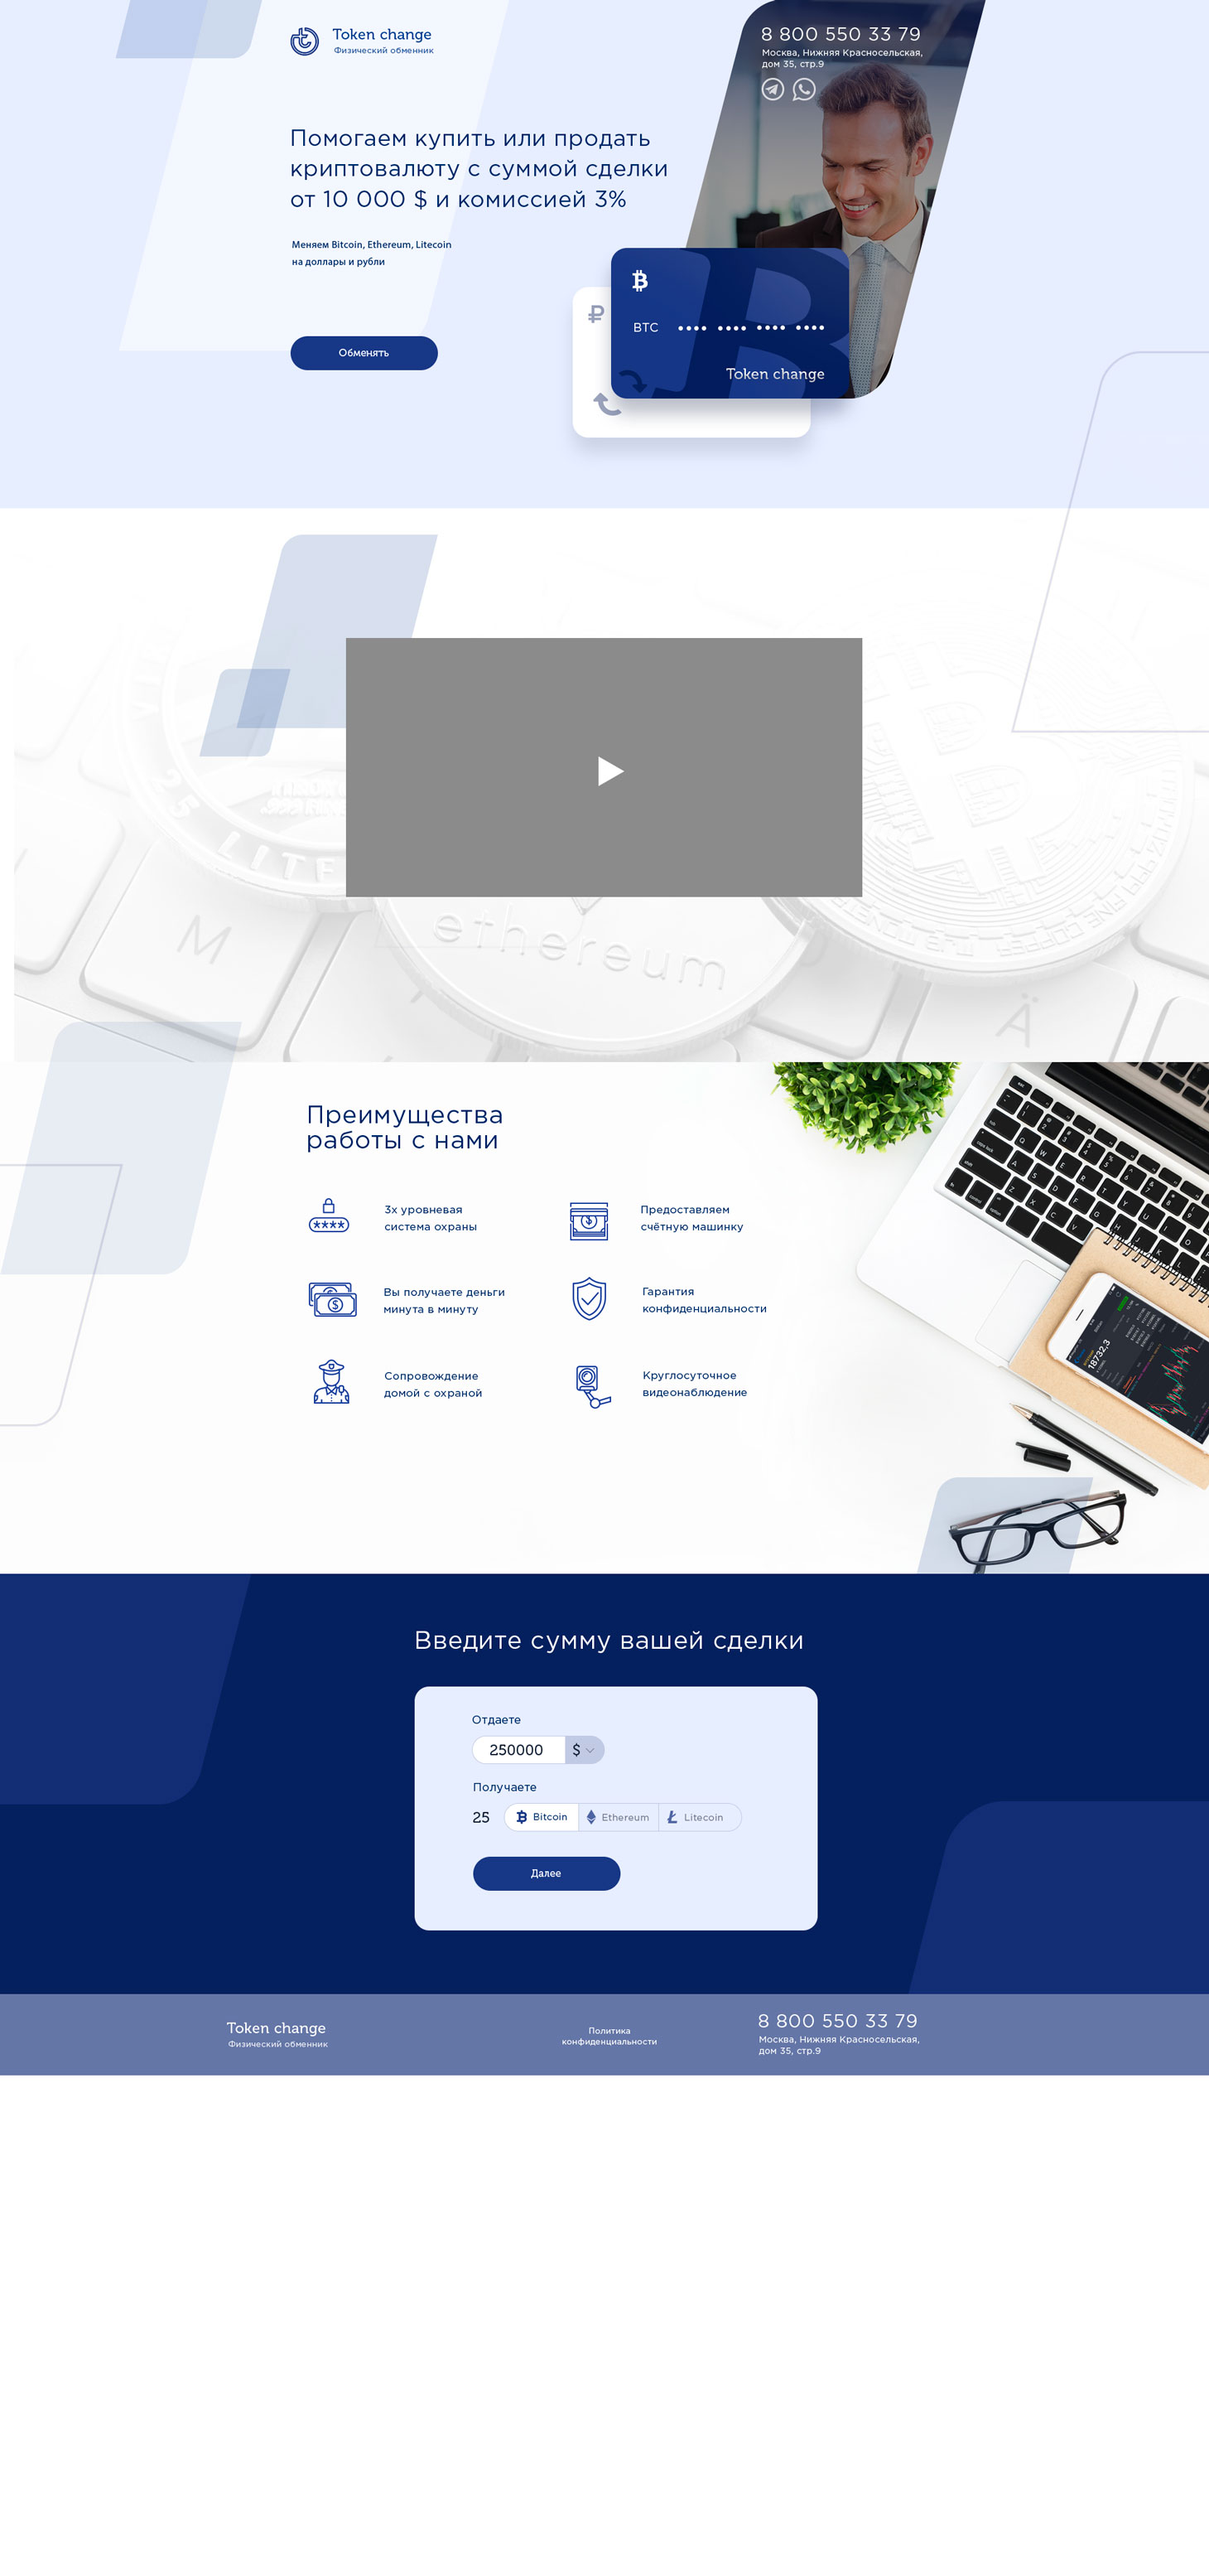
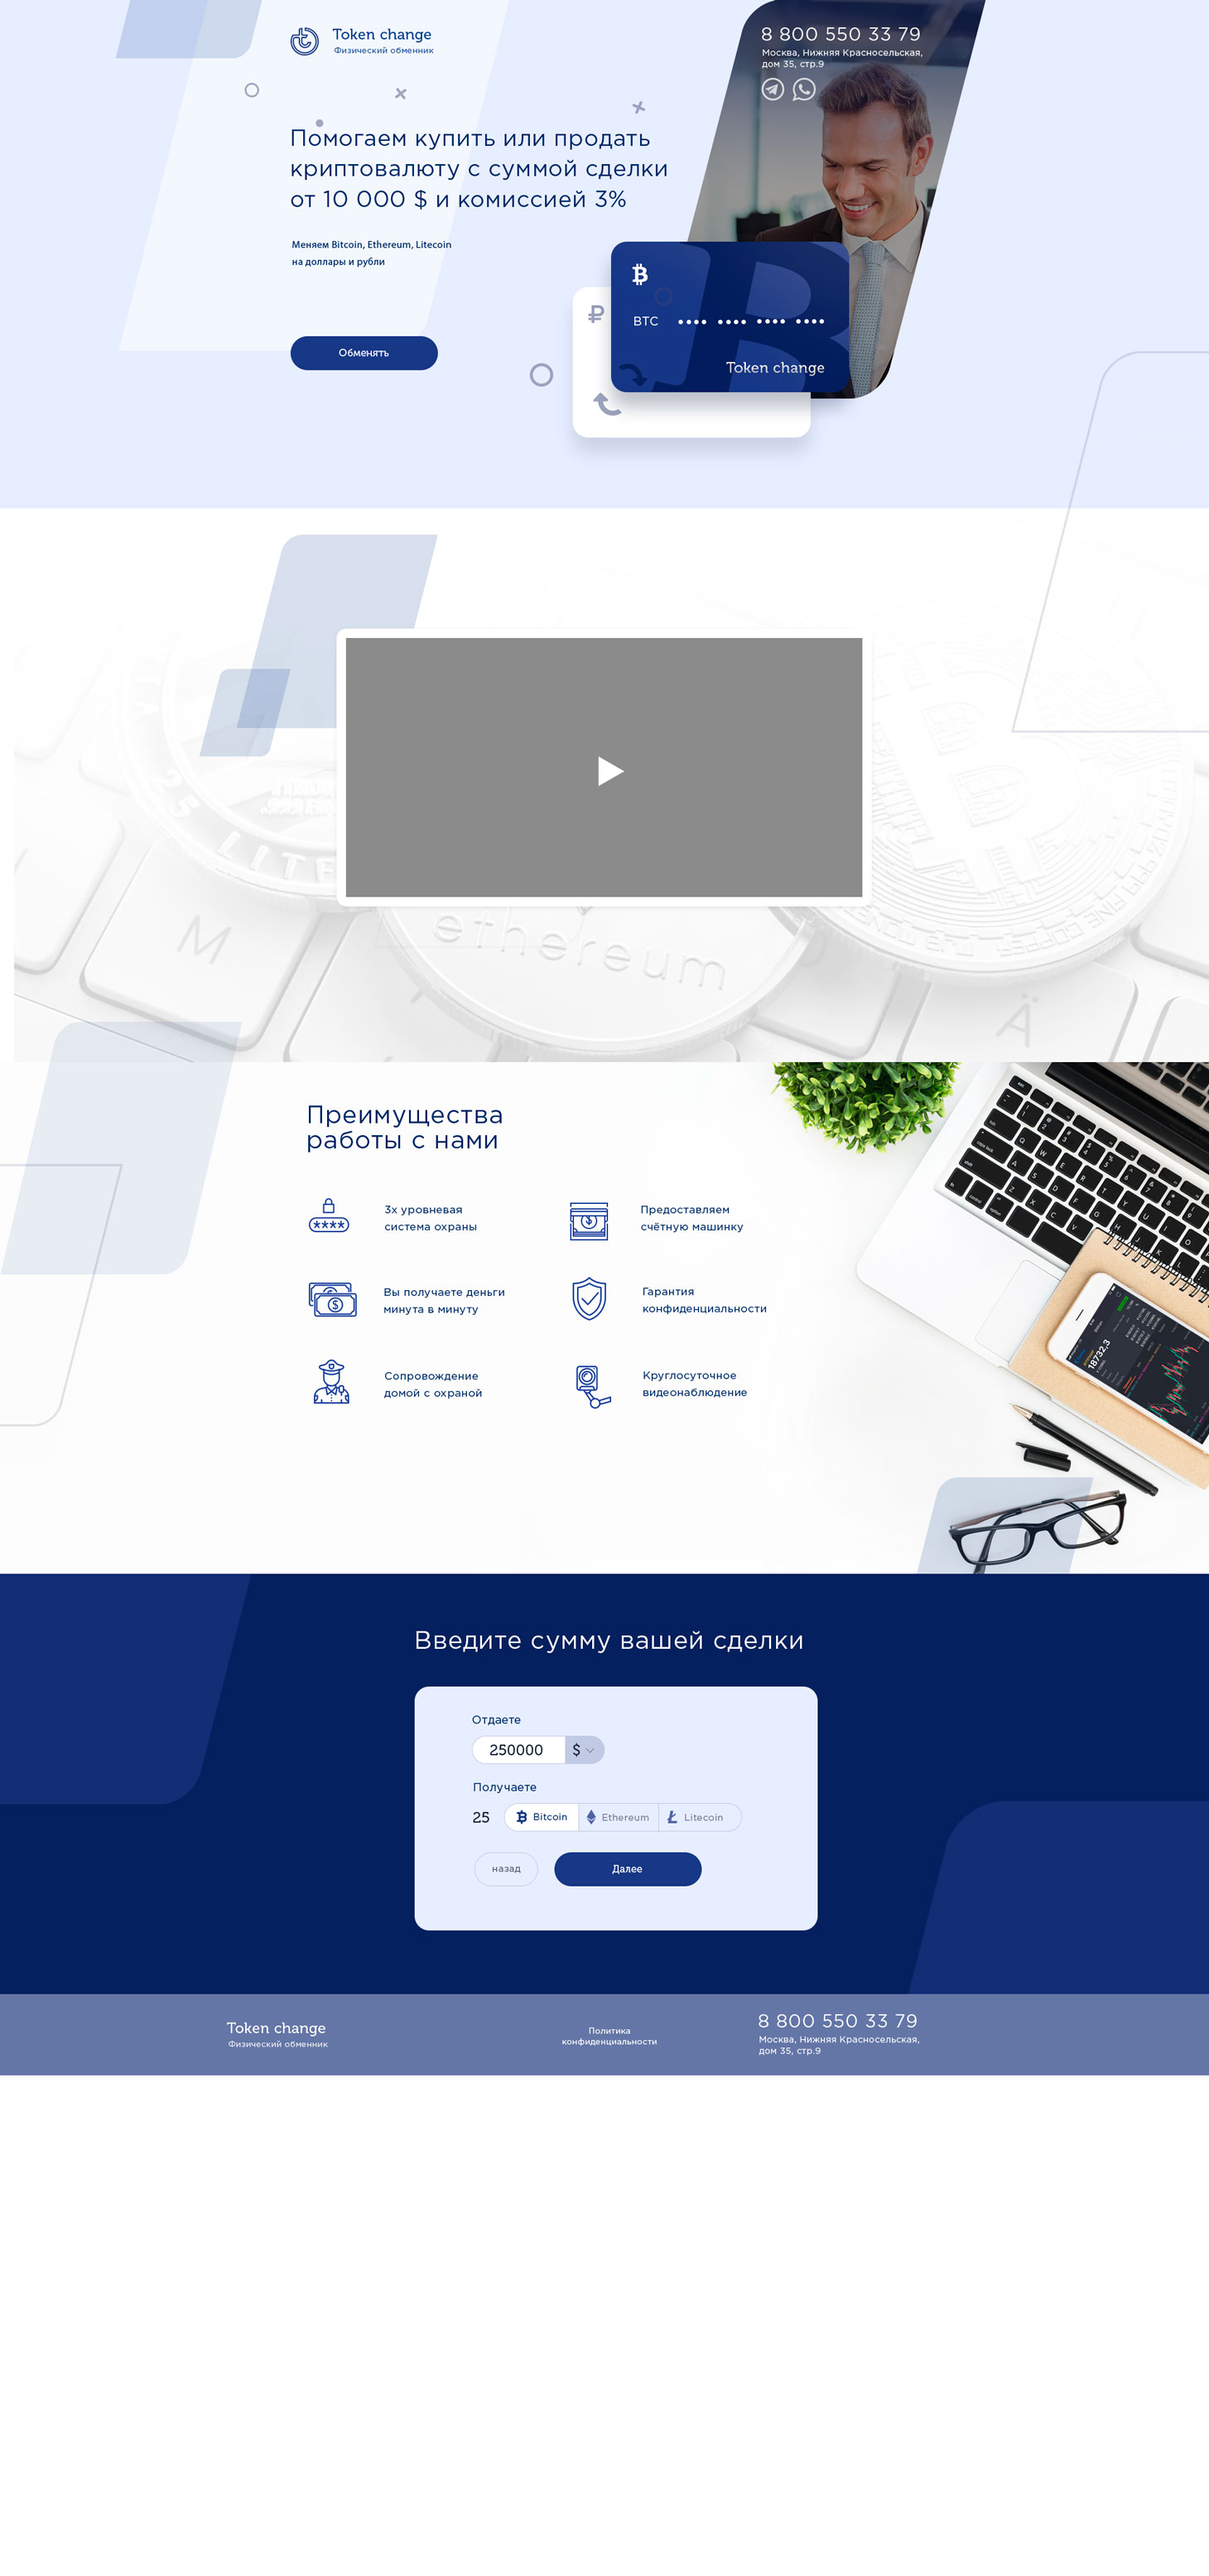
asd

Changed region(s): [[0.524, 0.0936, 0.7089, 0.156], [0.4007, 0.7176, 0.5856, 0.7488], [0.2774, 0.2184, 0.339, 0.2808]]

diff --git a/verstki/kript/css/sass/style.scss b/verstki/kript/css/sass/style.scss
@@ -1618,38 +1618,38 @@ footer {
                 }
             }
             .back{
-                    width: 101px;
-                    height: 41px;
-                    border: 1px solid rgba(145, 154, 187, 0.43);
-                    border-radius: 27px;
-                    margin-top: 30px;
-                    float: right;
-                    margin-right: 26px;
-                    color: #505568;
-                    font-size: 15px;
-                    font-weight: 400;
-                    line-height: 36px;
-                    text-align: center;
-                    cursor: pointer;
+                        width: 101px;
+                        height: 41px;
+                        border: 1px solid rgba(145, 154, 187, 0.43);
+                        border-radius: 27px;
+                        margin-top: 30px;
+                        float: left;
+                        margin-left: 21px;
+                        color: #505568;
+                        font-size: 15px;
+                        font-weight: 400;
+                        line-height: 36px;
+                        text-align: center;
+                        cursor: pointer;
                 &:hover{
                     text-decoration: underline;
                 }
             }
             .btn {
-                    float: left;
-                    width: 177px;
-                    height: 41px;
-                    background-color: #283a83;
-                    border-radius: 27px;
-                    text-align: center;
-                    line-height: 41px;
-                    margin-top: 30px;
-                    color: white;
-                    margin-left: 4px;
-                    padding-right: 4px;
-                    cursor: pointer;
-                    transition: all 0.25s;
-                    outline: 0;
+                        float: right;
+                        width: 177px;
+                        height: 41px;
+                        background-color: #283a83;
+                        border-radius: 27px;
+                        text-align: center;
+                        line-height: 41px;
+                        margin-top: 30px;
+                        color: white;
+                        margin-right: 10px;
+                        padding-right: 4px;
+                        cursor: pointer;
+                        transition: all 0.25s;
+                        outline: 0;
                 &:hover{
                     background-color: #112e75;           
                 }  

diff --git a/verstki/kript/css/style.css b/verstki/kript/css/style.css
@@ -1299,7 +1299,8 @@ footer {
     height: 507px; }
     /* line 1334, D:/science/aloha/verstki/kript/css/sass/style.scss */
     .sec4 .step1 {
-      display: block; }
+      display: none;
+      }
       /* line 1336, D:/science/aloha/verstki/kript/css/sass/style.scss */
       .sec4 .step1 h2 {
         padding-top: 63px;
@@ -1359,7 +1360,8 @@ footer {
             box-shadow: 0 0 22.3px 1.7px rgba(255, 255, 255, 0.1); }
     /* line 1395, D:/science/aloha/verstki/kript/css/sass/style.scss */
     .sec4 .step2 {
-      display: none; }
+      display: block;
+      }
       /* line 1397, D:/science/aloha/verstki/kript/css/sass/style.scss */
       .sec4 .step2 h2 {
         text-align: center;
@@ -1587,20 +1589,21 @@ footer {
           border: 1px solid rgba(145, 154, 187, 0.43);
           border-radius: 27px;
           margin-top: 30px;
-          float: right;
-          margin-right: 26px;
+          float: left;
+          margin-left: 21px;
           color: #505568;
           font-size: 15px;
           font-weight: 400;
           line-height: 36px;
           text-align: center;
-          cursor: pointer; }
+          cursor: pointer;
+          }
           /* line 1634, D:/science/aloha/verstki/kript/css/sass/style.scss */
           .sec4 .step2 .block .back:hover {
             text-decoration: underline; }
         /* line 1638, D:/science/aloha/verstki/kript/css/sass/style.scss */
         .sec4 .step2 .block .btn {
-          float: left;
+          float: right;
           width: 177px;
           height: 41px;
           background-color: #283a83;
@@ -1609,11 +1612,12 @@ footer {
           line-height: 41px;
           margin-top: 30px;
           color: white;
-          margin-left: 4px;
+          margin-right: 10px;
           padding-right: 4px;
           cursor: pointer;
           transition: all 0.25s;
-          outline: 0; }
+          outline: 0;
+          }
           /* line 1653, D:/science/aloha/verstki/kript/css/sass/style.scss */
           .sec4 .step2 .block .btn:hover {
             background-color: #112e75; }

diff --git a/verstki/kript/index.html b/verstki/kript/index.html
@@ -86,7 +86,7 @@
 <section class="sec4">
     <div>
       <div class="s1 step1">
-          <h2>Выберите действия</h2>
+          <h2>Выберите действие</h2>
           <div class="block">
               <div class="item" data-type="buy">
                   <div class="img img1"></div>
